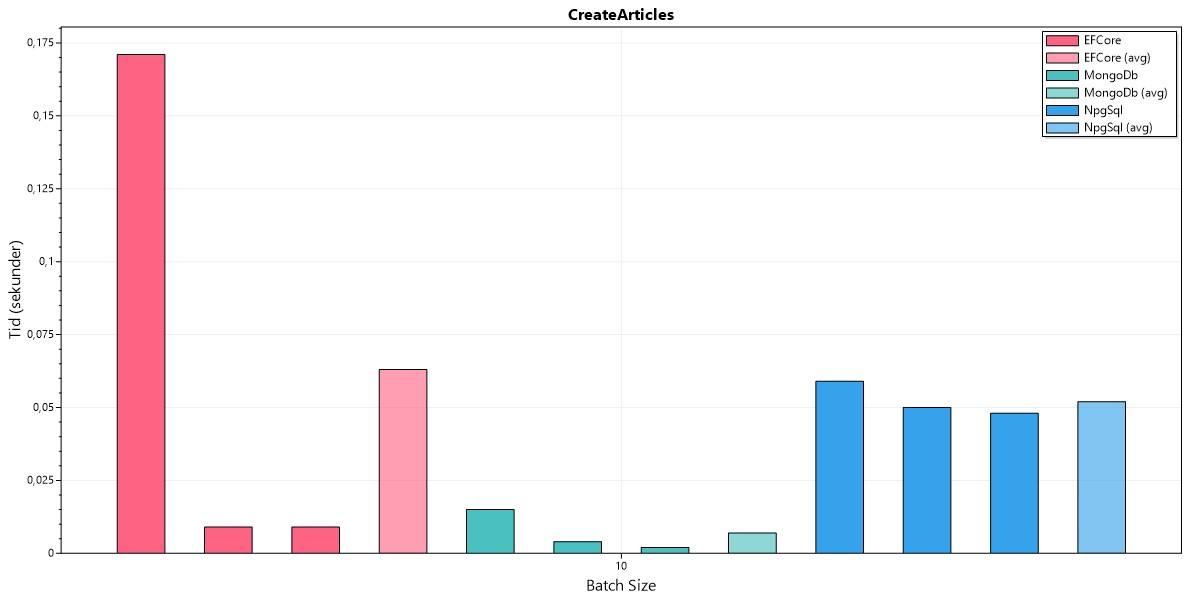
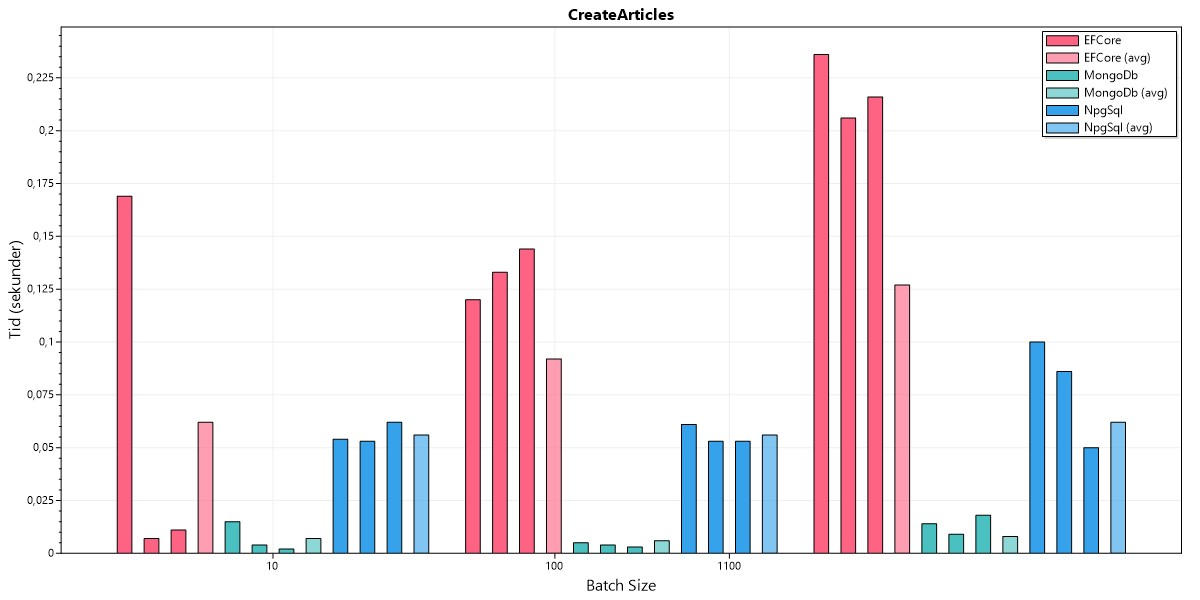
diagram builder

diff --git a/Consoles/BenchmarkConsole.cs b/Consoles/BenchmarkConsole.cs
@@ -176,7 +176,7 @@ public static class BenchmarkConsole
         var resultSetDeleteAuthors = new List<ResultSet>();
 
 
-        List<int> counts = [1000,10000,100000];
+        List<int> counts = [10,100,1100];
         foreach (var count in counts)
         {
             var indexToGet = count-2;
@@ -241,6 +241,23 @@ public static class BenchmarkConsole
                         break;
                 }
             }
+            
+                                                
+            var projectRoot = Path.GetFullPath(Path.Combine(AppContext.BaseDirectory, @"..\..\..\"));
+            var outPutDirectory = Path.Combine(projectRoot, "results");
+            Directory.CreateDirectory(outPutDirectory);
+
+            DiagramGenerator.GenerateDiagram(resultSetCreateArticles, outPutDirectory, "Create-Article");
+            DiagramGenerator.GenerateDiagram(resultSetCreateAuthors, outPutDirectory, "Create-Author");
+            DiagramGenerator.GenerateDiagram(resultSetFetchAllArticles, outPutDirectory, "Fetch-Article");
+            DiagramGenerator.GenerateDiagram(resultSetFetchAllAuthors, outPutDirectory, "Fetch-Author");
+            DiagramGenerator.GenerateDiagram(resultSetFetchOneArticle, outPutDirectory, "Fetch-one-Article");
+            DiagramGenerator.GenerateDiagram(resultSetFetchOneAuthor, outPutDirectory, "Fetch-one-Author");
+            DiagramGenerator.GenerateDiagram(resultSetUpdateArticles, outPutDirectory, "Update-Article");
+            DiagramGenerator.GenerateDiagram(resultSetUpdateAuthors, outPutDirectory, "Update-Author");
+            DiagramGenerator.GenerateDiagram(resultSetDeleteArticles, outPutDirectory, "Delete-Article");
+            DiagramGenerator.GenerateDiagram(resultSetDeleteAuthors, outPutDirectory, "Delete-Author");
+
             
         }
         
